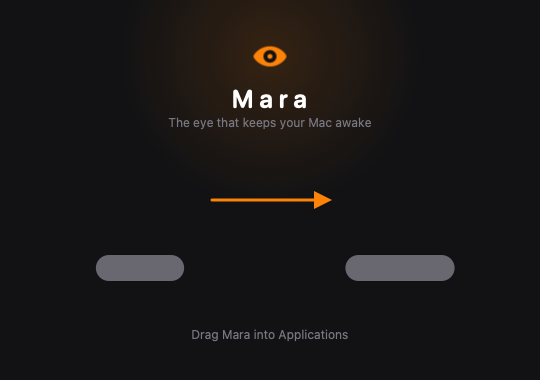
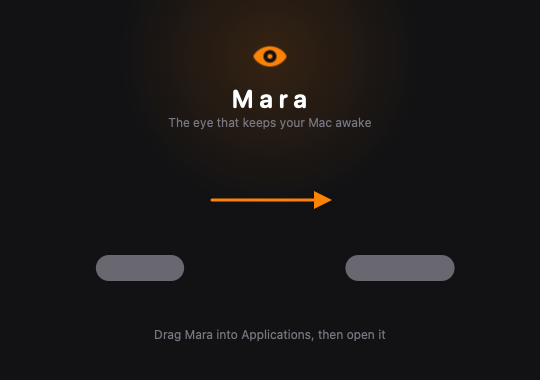
fix(dmg): tell users to open Mara after dragging it to Applications (#116)
The eject prompt can only appear once Mara runs, because a DMG runs no code when a file is dragged. The old caption stopped at the copy, so the step that triggers the prompt was invisible.

Changed region(s): [[0.2667, 0.8684, 0.7111, 0.8974]]

diff --git a/scripts/dmg/generate-background.swift b/scripts/dmg/generate-background.swift
@@ -103,7 +103,7 @@ func render(scale: CGFloat) -> NSBitmapImageRep {
                      xRadius: 13, yRadius: 13).fill()
     }
 
-    drawCentered("Drag Mara into Applications", font: .systemFont(ofSize: 12),
+    drawCentered("Drag Mara into Applications, then open it", font: .systemFont(ofSize: 12),
                  color: muted, kern: 0, centerY: 46)
     return rep
 }
